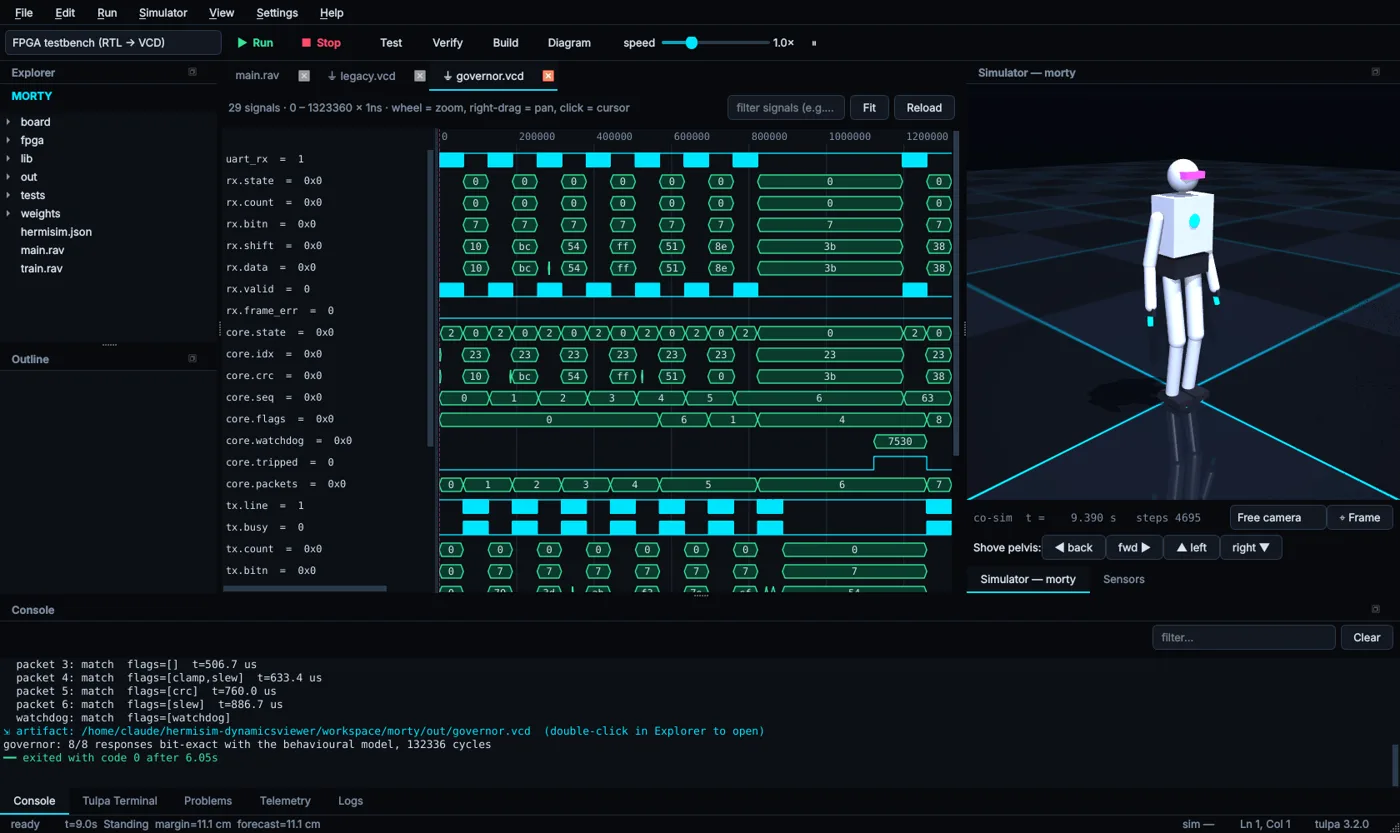
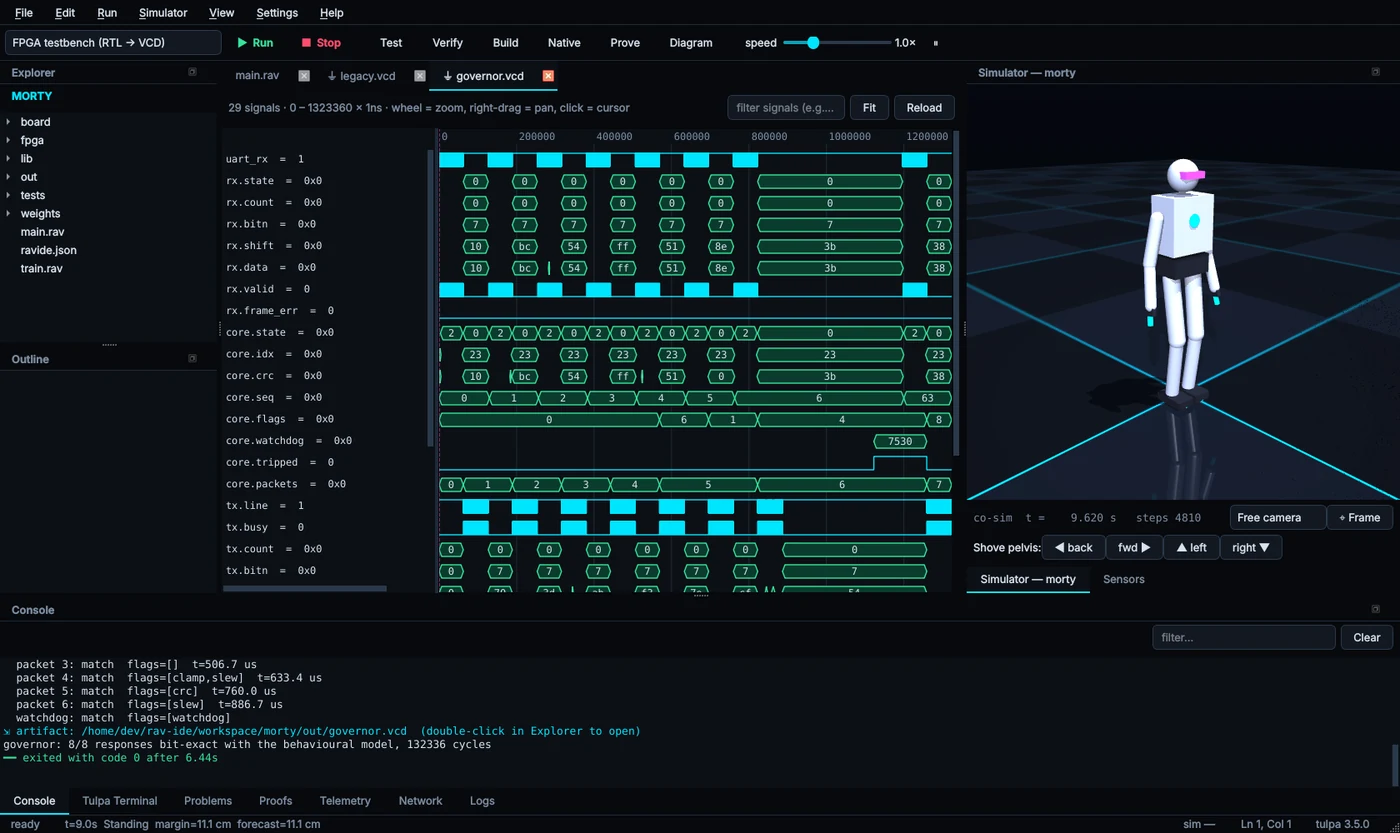
Point at LoQiseaking69/.RAV_IDE, rebranded screenshots, Tulpa Field 1.5.1 (#10)
* Point links at LoQiseaking69/.RAV_IDE; Tulpa Field 1.5.1

- .RAV IDE repo renamed: README, docs, site config and examples use
  https://github.com/LoQiseaking69/.RAV_IDE (clone into rav-ide/)
- Tulpa Field 1.5.1 ships the .RAV IDE naming and ravide.json projects

Claude-Session: https://claude.ai/code/session_01PTVHcUebwVvs6TiUnpqaws

* Site: rebranded .RAV IDE screenshots

Claude-Session: https://claude.ai/code/session_01PTVHcUebwVvs6TiUnpqaws

---------

diff --git a/website/src/pages/hermisim.html b/website/src/pages/hermisim.html
@@ -87,10 +87,10 @@
       <div class="card reveal">
         <h3>From source</h3>
         <p>Linux, macOS or Windows. Clone both repositories side by side.</p>
-        <div class="code"><div class="code-head"><span>Shell</span><button class="copy" type="button">Copy</button></div><pre><code class="hljs">git clone {{hermisim.repo}}.git
+        <div class="code"><div class="code-head"><span>Shell</span><button class="copy" type="button">Copy</button></div><pre><code class="hljs">git clone {{hermisim.repo}}.git rav-ide
 git clone {{tulpa.repo}}.git
 (cd TulpaLang &amp;&amp; cargo build --release)
-cd HermiSim-DynamicsViewer
+cd rav-ide
 pip install -r requirements.txt
 python main.py</code></pre></div>
       </div>

diff --git a/README.md b/README.md
@@ -30,7 +30,7 @@ abstractions, and native hardware integration.
 | Engineering model | Units, contracts, invariants, state machines, reactive rules, timing constraints |
 | Hardware integration | GPIO, I2C, SPI, UART, PWM, Servo, PID, CAN, Bluetooth LE |
 | Verification | Static proofs of contracts and invariants (`tulpa prove`), runtime contracts, contract fuzzing, safety monitors, exhaustive exploration, deterministic physics and chip emulation, record/replay |
-| Developer tooling | REPL, test runner, LSP, VS Code extension, Mermaid state diagrams, [.RAV IDE](https://github.com/LoQiseaking69/HermiSim-DynamicsViewer), [Tulpa Field](android/README.md) for Android and [iOS](ios/README.md) |
+| Developer tooling | REPL, test runner, LSP, VS Code extension, Mermaid state diagrams, [.RAV IDE](https://github.com/LoQiseaking69/.RAV_IDE), [Tulpa Field](android/README.md) for Android and [iOS](ios/README.md) |
 | License | [Business Source License 1.1](LICENSING.md) (source-available; converts to Apache-2.0 after four years) |
 
 ## A language designed around physical systems
@@ -351,7 +351,7 @@ See the [Driver SDK](docs/drivers.md) and [Native and embedded targets](docs/emb
 
 ## .RAV IDE integration
 
-The [.RAV IDE](https://github.com/LoQiseaking69/HermiSim-DynamicsViewer) IDE bundles Tulpa with:
+The [.RAV IDE](https://github.com/LoQiseaking69/.RAV_IDE) IDE bundles Tulpa with:
 - a MuJoCo co-simulator
 - a waveform viewer
 - state-machine diagrams
@@ -410,7 +410,7 @@ The `release` workflow builds them on every `v*` tag. The latest release is **v3
   `sudo ./install.sh /usr/local`.
 - **Debian / Ubuntu / Raspberry Pi OS:** `sudo apt install ./tulpa_<version>_<arch>.deb`
 - **macOS:** `tulpa-<version>-<x86_64|aarch64>-apple-darwin.tar.gz`
-- **Windows:** use the [.RAV IDE installer](https://github.com/LoQiseaking69/HermiSim-DynamicsViewer),
+- **Windows:** use the [.RAV IDE installer](https://github.com/LoQiseaking69/.RAV_IDE),
   which bundles `tulpa.exe` and the `std/` library, or build from source.
 - **VS Code:** `code --install-extension tulpa-lang-<version>.vsix`. The `.vsix` is attached to
   each release. The extension is not on the VS Code Marketplace yet.

diff --git a/website/src/docs/installation.md b/website/src/docs/installation.md
@@ -6,7 +6,7 @@ so on Windows the IDE installer is the quickest way to get both.
 ## .RAV IDE on Windows (recommended)
 
 Download `RAVIDE-Setup-<version>-x64.exe` from
-[.RAV IDE releases](https://github.com/LoQiseaking69/HermiSim-DynamicsViewer/releases).
+[.RAV IDE releases](https://github.com/LoQiseaking69/.RAV_IDE/releases).
 The installer:
 
 - bundles the IDE, MuJoCo and the Tulpa toolchain (`tulpa.exe` + `std/`)
@@ -63,10 +63,10 @@ Clone both repositories side by side. .RAV IDE looks for `../TulpaLang/target/re
 automatically.
 
 ```bash
-git clone https://github.com/LoQiseaking69/HermiSim-DynamicsViewer.git
+git clone https://github.com/LoQiseaking69/.RAV_IDE.git rav-ide
 git clone https://github.com/LoQiseaking69/TulpaLang.git
 (cd TulpaLang && cargo build --release)
-cd HermiSim-DynamicsViewer
+cd rav-ide
 pip install -r requirements.txt
 python main.py                      # the IDE
 python main.py --classic            # the original model viewer

diff --git a/website/src/docs/headless.md b/website/src/docs/headless.md
@@ -39,7 +39,7 @@ jobs:
     runs-on: ubuntu-latest
     steps:
       - uses: actions/checkout@v4
-        with: { path: HermiSim-DynamicsViewer }
+        with: { path: rav-ide }
       - uses: actions/checkout@v4
         with: { repository: LoQiseaking69/TulpaLang, path: TulpaLang }
       - uses: dtolnay/rust-toolchain@stable
@@ -48,12 +48,12 @@ jobs:
       - uses: actions/setup-python@v5
         with: { python-version: "3.12" }
       - run: pip install -r requirements.txt pytest
-        working-directory: HermiSim-DynamicsViewer
+        working-directory: rav-ide
       - run: |
           python -m tulpa_bridge doctor
           pytest
           python -m tulpa_bridge run workspace/morty/main.rav --model models/morty.xml --timeout 300 -- 10
-        working-directory: HermiSim-DynamicsViewer
+        working-directory: rav-ide
         env: { MUJOCO_GL: egl }
 ```
 

diff --git a/website/src/docs/index.md b/website/src/docs/index.md
@@ -39,4 +39,4 @@ state-machine diagrams, live telemetry plots and a board/BOM viewer.
 ## Source repositories
 
 - [TulpaLang](https://github.com/LoQiseaking69/TulpaLang): the language, toolchain, standard library and VS Code extension.
-- [HermiSim-DynamicsViewer](https://github.com/LoQiseaking69/HermiSim-DynamicsViewer): the IDE, co-simulator, Windows installer and the Morty project.
+- [.RAV_IDE](https://github.com/LoQiseaking69/.RAV_IDE): the IDE, co-simulator, Windows installer and the Morty project.

diff --git a/website/README.md b/website/README.md
@@ -2,7 +2,7 @@
 
 This folder is the source of the Tulpa and .RAV IDE website, published with GitHub Pages at
 **https://loqiseaking69.github.io/TulpaLang/**. It holds the landing pages for
-[Tulpa](../README.md) and [.RAV IDE](https://github.com/LoQiseaking69/HermiSim-DynamicsViewer)
+[Tulpa](../README.md) and [.RAV IDE](https://github.com/LoQiseaking69/.RAV_IDE)
 and the documentation site.
 
 It's a small static-site generator (`build.mjs`, under 400 lines) with two dependencies,
